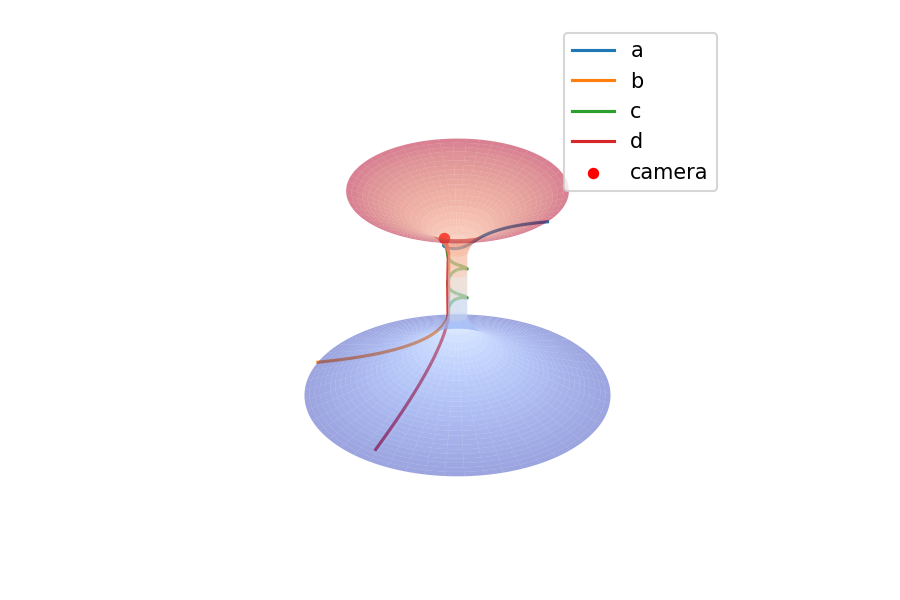
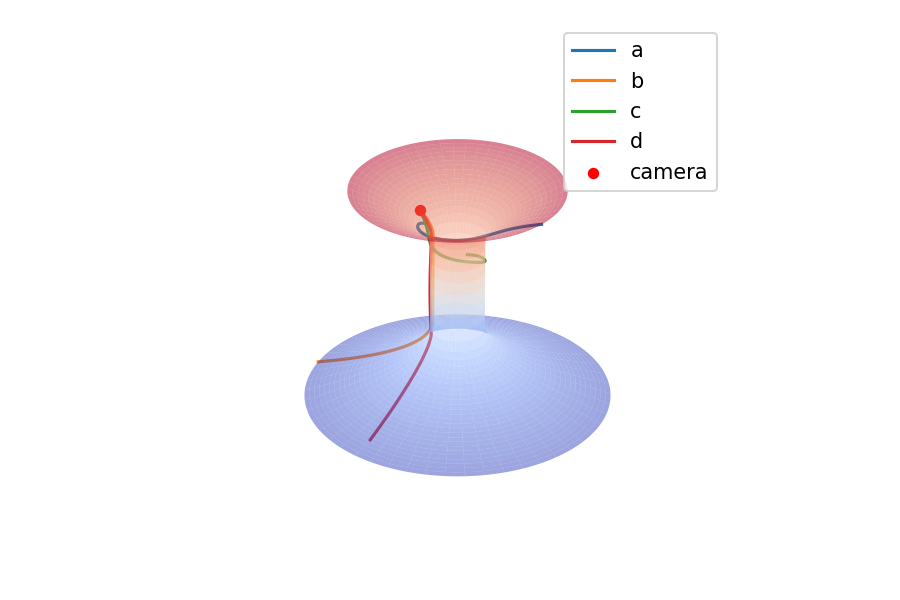
spelen met parameters en fotos

Changed region(s): [[0.4044, 0.33, 0.6222, 0.75]]

diff --git a/WormholeRayTracer.py b/WormholeRayTracer.py
@@ -71,7 +71,7 @@ def screen_cart(Nz, Ny, L1 = 1, L2=2):
     for j in range(Nz):
         for i in range(Ny):
             # Placed at x = 1, (y,z) in My X Mz
-            arr.append([0.25, My[i],Mz[j]]) #(x, y, z)
+            arr.append([0.4, My[i],Mz[j]]) #(x, y, z)
 
     return np.array(arr).reshape(Nz, Ny, 3) #Flat array into matrix
 
@@ -225,8 +225,8 @@ def diff_equations(t, variables):
     cos1 = np.cos(theta)
     rec_sin2 = rec_sin1**2
     rec_sin3 = rec_sin1*rec_sin2
-    B = p_th**2 + p_phi**2 * rec_sin2
-    b = p_phi
+    # B = p_th**2 + p_phi**2 * rec_sin2
+    # b = p_phi
 
     # Using the hamiltonian equations of motion
     dl_dt       = p_l
@@ -278,14 +278,20 @@ def simulate_radius(t_end, Par, q0, h, Nz = 14**2, Ny = 14**2, methode = 'BDF', 
     teller1 = int(len(p1)/2) - 1
     #Loop over half of the screen
     print('Integrating ray...')
+    nstep = []
     for teller2 in tqdm(range(int(len(p1[0])/2 - 1), len(p1[0]))):
         initial_values = np.array([q1, q2, q3, p1[teller1][teller2], p2[teller1][teller2], p3[teller1][teller2], M, rho, a, Cst[0,teller1,teller2], Cst[1,teller1,teller2]])
         # Integrate to the solution
         i = teller2 - int(len(p1[0])/2 - 1)
-        Motion[i] = integr.solve_ivp(diff_equations, [0, -t_end], initial_values, method = methode, t_eval=data, rtol=h**(1/2), atol=h).y[:6]
+        sol = integr.solve_ivp(diff_equations, [0, -t_end], initial_values, method = methode, t_eval=data, rtol=h**(1/2), atol=h)
+        Motion[i] = sol.y[:6]
+        nstep.append(sol.nfev)
+    print(np.amax(Motion[:,1]))
     Motion[:,1] = np.mod(Motion[:,1], 2*np.pi)
     Motion[:,2] = np.mod(Motion[:,2], np.pi)
+    avstep = sum(nstep)/len(nstep)
     print('radius saved!')
+    print(f'Average number of steps is: {avstep}.')
     return Motion[:, 3:], Motion[:, :3]
 
 

diff --git a/makefourcolorbackup.py b/makefourcolorbackup.py
@@ -12,21 +12,21 @@ def make4color(height=1024, width=2048):
         for column in range(width):
             loch = row + height/2
             locp = column
-            if row <= height/2 and row%(height/64) > 0:
-                if column < width/2 and column%(height/64)>0:
-                    pic[row][column] = np.array([255, 0, 0])
-                if column >= width/2 and column%(height/64)>0:
-                    pic[row][column] = np.array([123, 123, 0])
-            if row > height/2 and row%(height/64) > 0:
+            if row <= height/2 and row%(height/16) > 4:
+                if column < width/2 and column%(height/16)>4:
+                    pic[row][column] = np.array([0, 255, 255])
+                if column >= width/2 and column%(height/16)>4:
+                    pic[row][column] = np.array([123, 123, 255])
+            if row > height/2 and row%(height/16) > 4:
                 locp = column + width/2
-                if column < width/2 and column%(height/64)>0:
-                    pic[row][column] = np.array([0, 255, 0])
-                if column >= width/2 and column%(height/64)>0:
-                    pic[row][column] = np.array([0, 0, 255])
+                if column < width/2 and column%(height/16)>4:
+                    pic[row][column] = np.array([255, 0, 255])
+                if column >= width/2 and column%(height/16)>4:
+                    pic[row][column] = np.array([255, 255, 0])
     return np.array(pic)
 
 pict = make4color()
 print(pict.shape)
 img = cv2.cvtColor(np.array(pict, np.float32), 1)
 path = os.getcwd()
-cv2.imwrite(os.path.join(path, 'fourfull.png'), img)
+cv2.imwrite(os.path.join(path, 'negfourfull16thick.png'), img)

diff --git a/jelle2.py b/jelle2.py
@@ -7,13 +7,13 @@ import InbeddingDiagramDNeg as emb
 import os
 
 
+sat = 'negfourfull16thick.png'
 gar = 'fourfull.png'
-sat = 'negfourfull.png'
 
-wormh = wrmhole.wormhole_with_symmetry(t_end = 100, q0 = [12, np.pi, np.pi/2], Nz=1024, Ny=2048, Par=[0.43/1.42953, 8.6, 4.3], h=10**-10, choice=True)
+wormh = wrmhole.wormhole_with_symmetry(t_end = 150, q0 = [8.75, np.pi, np.pi/2], Nz=1024, Ny=2048, Par=[0.02/1.42953, 1, 2.5], h=10**-10, choice=True)
 picture = wrmpics.make_pic_quick(wormh, sat, gar)
 np.save('picture', picture)
 print('Saving picture')
 path = os.getcwd()
-cv2.imwrite(os.path.join(path, 'testJelle.png'), picture)
+cv2.imwrite(os.path.join(path, 'testJelle4.png'), picture)
 print('Picture saved')

diff --git a/WormholePics.py b/WormholePics.py
@@ -70,8 +70,8 @@ def make_picture(photo, gargantua, saturn):
         for kolom in range(0, Ny):
             element = photo[rij][kolom]
             l, phi, theta = element
-            loctheta = determine_theta(Nz, theta)
-            locphi = determine_phi(Ny, phi)
+            loctheta = determine_theta(len(saturn), theta)
+            locphi = determine_phi(len(saturn[0]), phi)
             if l < 0:
                 pic[rij][kolom] = gargantua[loctheta][locphi]
             else:
